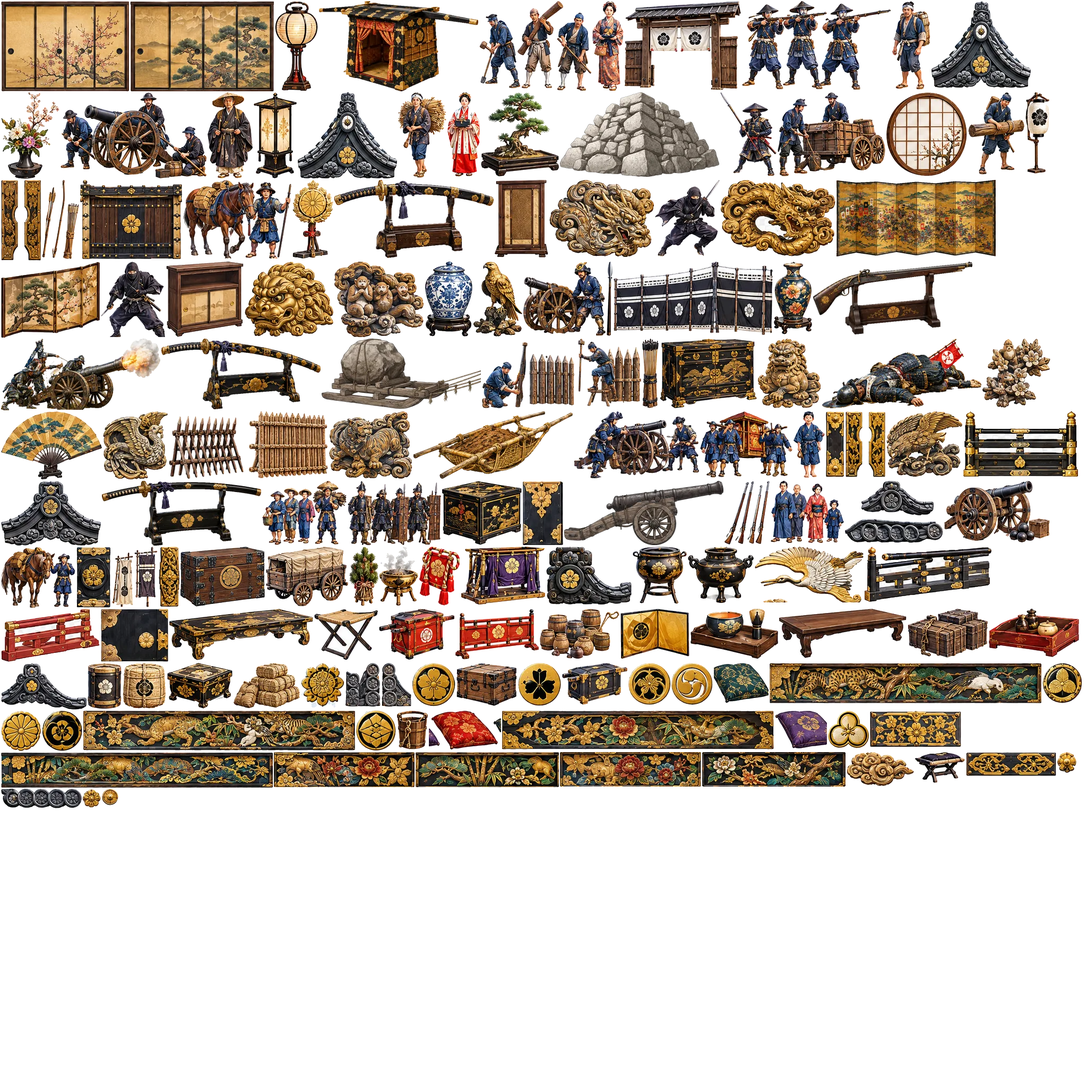
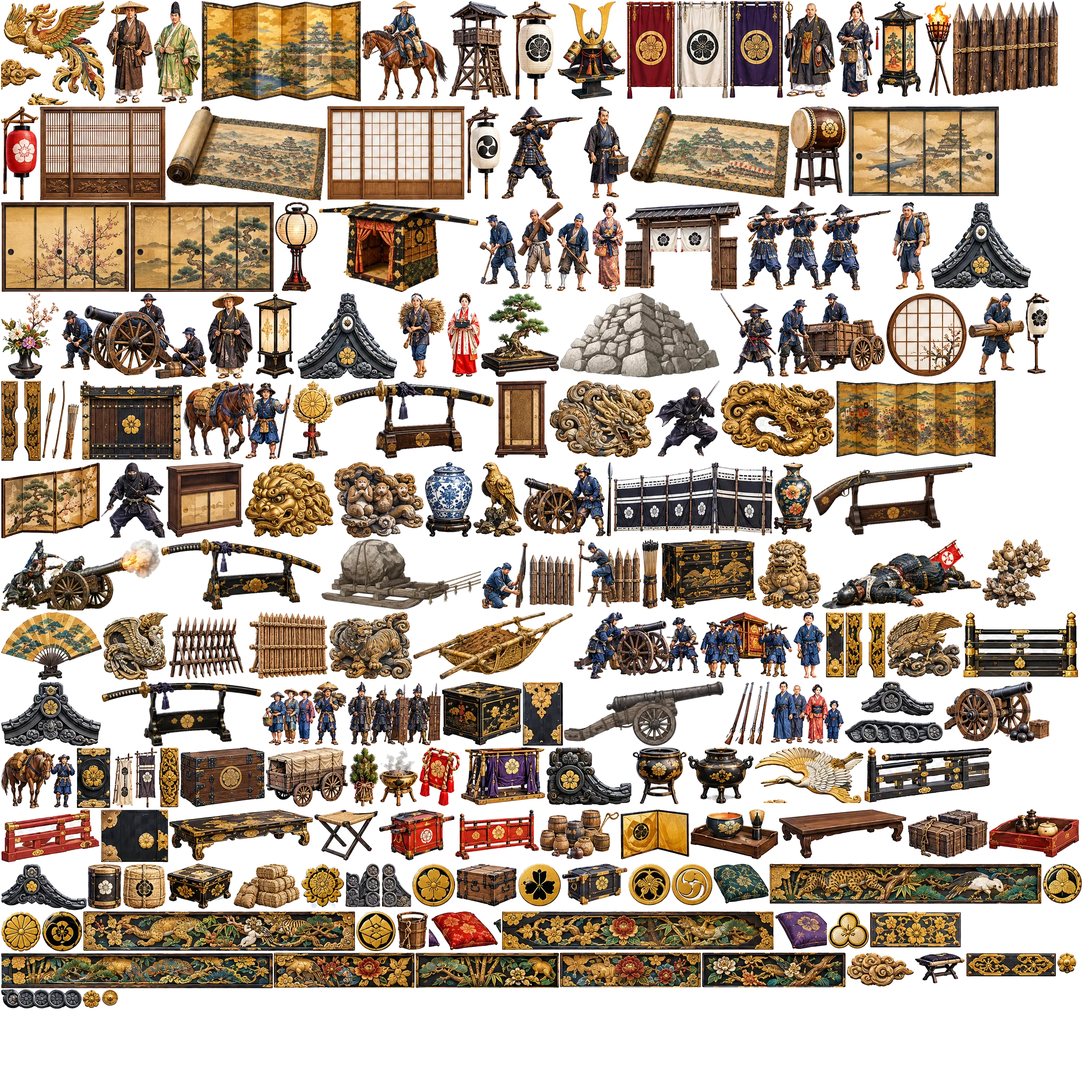
武将13人の後ろ姿を追加。陣の後ろから見ると後ろ姿に切り替わる
Claude-Session: https://claude.ai/code/session_01CbQDmY5EVodmwZ72hpont7

diff --git a/index.html b/index.html
@@ -3320,7 +3320,7 @@ const inOut=(x,z,m)=>OUTAREA.some(r=>inR(r,x,z,m||0));
 }
 
 /* ================= 切り抜き画像（スプライト）: 人物・装飾品をアトラス画像から並べる ================= */
-const ATLAS_META={"size":2048,"pages":4,"s":{"t_nobori":[0,2,2,98,300,3.4],"g_nobori":[0,102,2,133,300,3.0],"nb_rokumon":[0,237,2,111,300,4.2],"kinsen":[0,350,2,103,300,4.2],"sennari":[0,455,2,88,300,4.2],"kama":[0,545,2,176,300,0.35],"chaire":[0,723,2,242,300,0.22],"ex_chatsubo":[0,967,2,269,300,0.42],"ex_do":[0,1238,2,192,300,0.7],"ex_hyotan":[0,1432,2,214,300,0.38],"ex_jingasa":[0,1648,2,300,300,0.32],"ex_kabuto1":[0,2,304,235,300,0.55],"ex_kabuto2":[0,239,304,256,300,0.55],"ex_kabuto3":[0,497,304,239,300,0.55],"ex_kabuto_bariin":[0,738,304,196,300,0.62],"ex_konten":[0,936,304,231,300,0.55],"ex_kouro":[0,1169,304,230,300,0.42],"ex_tsubo_matsu":[0,1401,304,251,300,0.42],"ex_vase_imari":[0,1654,304,148,300,0.5],"k_nb_aoi":[0,1804,304,84,300,4.2],"k_nb_ii":[0,1890,304,84,300,4.2],"k_nb_maeda":[0,2,606,94,300,4.2],"obj_hashigo":[0,98,606,139,300,4.5],"r_act_kiba":[0,239,606,259,300,2.9],"t_nb_green":[0,500,606,78,300,4.2],"t_nb_mori":[0,580,606,82,300,4.2],"k_nobori_b":[0,664,606,116,300,3.4],"r_act_kiba_b":[0,782,606,150,300,2.9],"t_nobori_b":[0,934,606,95,300,3.4],"k_act_reload":[0,1031,606,300,299,1.9],"ki_maru":[0,1333,606,300,299,1.1],"ki_jumonji":[0,1635,606,300,292,1.1],"ki_hyotan":[0,2,908,300,289,1.1],"ex_jinbaori1":[0,304,908,300,285,0.95],"ex_jinbaori2":[0,606,908,300,283,0.95],"ki_kashiwa":[0,908,908,300,282,1.1],"tsukaiban":[0,1210,908,300,281,2.7],"lord_green":[0,1512,908,300,277,1.25],"nb_black":[0,1814,908,96,276,4.2],"lord_navy":[0,2,1199,300,274,1.25],"horo":[0,304,1199,300,273,2.7],"ex_chawan_oribe":[0,606,1199,300,273,0.16],"nb_white":[0,908,1199,86,270,4.2],"k_act_fire":[0,996,1199,300,268,2.1],"nb_red":[0,1298,1199,76,264,4.2],"ki_kiri":[0,1376,1199,300,263,1.1],"nb_blue":[0,1678,1199,77,260,4.2],"ki_jumonji2":[0,2,1475,300,260,1.1],"ki_nibiki":[0,304,1475,300,259,1.1],"ki_mae":[0,606,1475,300,258,1.1],"nb_yellow":[0,908,1475,77,257,4.2],"mokko_b":[0,987,1475,300,257,1.75],"t_hideyori":[0,1289,1475,140,256,1.75],"t_bushou":[0,1431,1475,102,256,1.8],"t_yari":[0,1535,1475,98,256,1.75],"t_yumi":[0,1635,1475,121,256,1.8],"t_uma":[0,1758,1475,144,256,2.5],"r_yumi":[0,1904,1475,122,256,1.8],"taisho":[0,2,1737,135,256,1.85],"y_hb":[0,139,1737,96,256,1.75],"y_dark":[0,237,1737,100,256,1.8],"r_bushou":[0,339,1737,102,256,1.85],"ashigaru":[0,443,1737,112,256,1.75],"r_kiba":[0,557,1737,131,256,2.6],"teppo_a":[0,690,1737,187,256,1.65],"p_lord":[0,879,1737,123,256,1.75],"p_kabuto":[0,1004,1737,101,256,1.8],"p_yari":[0,1107,1737,84,256,1.75],"p_red":[0,1193,1737,108,256,1.8],"p_horse":[0,1303,1737,132,256,2.3],"p_monk":[0,1437,1737,94,256,1.75],"p_ninja":[0,1533,1737,143,256,1.6],"p_woman":[0,1678,1737,75,256,1.6],"p_flag":[0,1755,1737,107,256,2.6],"p_lav":[0,1864,1737,75,256,1.6],"p_porter":[1,2,2,113,256,1.7],"p_noble":[1,117,2,102,256,1.8],"p_orange":[1,221,2,81,256,1.6],"p_point":[1,304,2,101,256,1.75],"p_flagboy":[1,407,2,97,256,2.4],"p_naked":[1,506,2,118,256,1.7],"q_ronin":[1,626,2,112,256,1.75],"q_redw":[1,740,2,83,256,1.6],"q_merchant":[1,825,2,124,256,1.75],"q_yoke":[1,951,2,187,256,1.7],"q_green":[1,1140,2,76,256,1.6],"q_child":[1,1218,2,175,256,1.1],"q_oldw":[1,1395,2,120,256,1.5],"q_girl":[1,1517,2,108,256,1.45],"q_traveler":[1,1627,2,124,256,1.75],"q_purple":[1,1753,2,100,256,1.6],"w_samurai":[1,1855,2,115,256,1.8],"w_red":[1,1972,2,73,256,1.6],"w_yoke":[1,2,260,163,256,1.7],"w_bucket":[1,167,260,80,256,1.55],"w_traveler":[1,249,260,103,256,1.8],"w_boy":[1,354,260,124,256,1.3],"w_umbrella":[1,480,260,90,256,1.7],"w_box":[1,572,260,114,256,1.7],"w_oldw":[1,688,260,113,256,1.5],"w_youth":[1,803,260,102,256,1.75],"w_tray":[1,907,260,78,256,1.6],"w_straw":[1,987,260,110,256,1.75],"lady_walk":[1,1099,260,108,256,1.62],"lady_tray":[1,1209,260,84,256,1.6],"lady_tray2":[1,1295,260,109,256,1.6],"sam_kami":[1,1406,260,123,256,1.8],"sam_haori":[1,1531,260,113,256,1.8],"sam_armor":[1,1646,260,102,256,1.8],"lord_purple":[1,1750,260,246,256,1.25],"sanada":[1,2,518,152,256,2.3],"yodo":[1,156,518,159,256,1.62],"nene":[1,317,518,161,256,1.6],"rikyu":[1,480,518,97,256,1.68],"kimura":[1,579,518,126,256,2.35],"goto":[1,707,518,127,256,2.3],"mitsunari":[1,836,518,114,256,1.75],"ishibiki":[1,952,518,185,256,1.55],"nanban":[1,1139,518,121,256,1.85],"frois":[1,1262,518,87,256,1.75],"touryou":[1,1351,518,106,256,1.72],"ishiku":[1,1459,518,206,256,1.25],"takajo":[1,1667,518,149,256,1.75],"jijo":[1,1818,518,112,256,1.6],"bugyo":[1,2,776,164,256,1.8],"taketaba_a":[1,168,776,183,256,1.75],"teppo_k":[1,353,776,201,256,1.3],"taketaba":[1,556,776,100,256,2.0],"kokuin":[1,658,776,204,256,1.0],"act_carry":[1,864,776,151,256,2.3],"act_flee":[1,1017,776,193,256,2.2],"ex_hata":[1,1212,776,130,256,1.6],"ex_hideyoshi_zo":[1,1344,776,157,256,1.5],"ex_kakejiku_castle":[1,1503,776,128,256,1.5],"k_bs_date":[1,1633,776,199,256,2.6],"k_bs_honda":[1,1834,776,136,256,2.6],"k_bs_ii":[1,2,1034,106,256,2.6],"k_bs_maeda":[1,110,1034,142,256,2.6],"k_bs_matsudaira":[1,254,1034,112,256,2.6],"k_bs_satake":[1,368,1034,155,256,2.6],"k_bs_todo":[1,525,1034,133,256,2.6],"k_bs_uesugi":[1,660,1034,119,256,2.6],"obj_fuda":[1,781,1034,94,256,1.9],"obj_tate":[1,877,1034,202,256,1.6],"t_bs_akashi":[1,1081,1034,128,256,2.6],"t_bs_chosokabe":[1,1211,1034,137,256,2.6],"t_bs_kimura2":[1,1350,1034,125,256,2.6],"t_bs_mori":[1,1477,1034,180,256,2.6],"t_bs_ono":[1,1659,1034,146,256,2.6],"ashigaru_b":[1,1807,1034,104,256,1.75],"ishibiki_b":[1,2,1292,168,256,1.55],"ishiku_b":[1,172,1292,214,256,1.25],"k_act_fire_b":[1,388,1292,223,256,2.1],"k_act_reload_b":[1,613,1292,184,256,1.9],"k_act_taketaba_b":[1,799,1292,216,256,2.3],"k_bushou_b":[1,1017,1292,110,256,1.8],"k_captain_b":[1,1129,1292,107,256,1.75],"k_teppo_b":[1,1238,1292,161,256,1.7],"k_uma_b":[1,1401,1292,117,256,2.5],"k_yari_b":[1,1520,1292,109,256,1.75],"k_yumi_b":[1,1631,1292,164,256,1.8],"ninpu_b":[1,1797,1292,104,256,1.65],"p_naked_b":[1,1903,1292,114,256,1.7],"p_porter_b":[1,2,1550,114,256,1.7],"r_act_fire_b":[1,118,1550,252,256,2.1],"r_bushou_b":[1,372,1550,112,256,1.85],"r_kiba_b":[1,486,1550,124,256,2.6],"r_yumi_b":[1,612,1550,122,256,1.8],"t_act_yari_b":[1,736,1550,229,256,2.0],"t_bushou_b":[1,967,1550,105,256,1.8],"t_uma_b":[1,1074,1550,113,256,2.5],"t_yari_b":[1,1189,1550,97,256,1.75],"t_yumi_b":[1,1288,1550,116,256,1.8],"taketaba_a_b":[1,1406,1550,132,256,1.75],"teppo_a_b":[1,1540,1550,180,256,1.65],"teppo_k_b":[1,1722,1550,173,256,1.3],"y_dark_b":[1,1897,1550,107,256,1.8],"y_hb_b":[2,2,2,89,256,1.75],"yari_a_b":[2,93,2,117,256,1.8],"pillar_k":[2,212,2,42,255,2.4],"k_yumi":[2,256,2,137,254,1.8],"ki_umebachi":[2,395,2,300,254,1.1],"kago":[2,697,2,300,253,2.0],"t_teppo_b":[2,999,2,212,253,1.7],"nb_stripe":[2,1213,2,74,252,4.2],"k_tate_b":[2,1289,2,300,250,2.2],"r_act_fire":[2,1591,2,300,249,2.1],"ex_chawan_gold":[2,2,260,270,248,0.16],"nb_yel2":[2,274,260,73,246,4.2],"nb_white2":[2,349,260,71,246,4.2],"ex_sensu_kiri":[2,422,260,300,245,0.32],"ex_kawara":[2,724,260,300,244,0.3],"k_nobori":[2,1026,260,108,242,3.4],"nb_green2":[2,1136,260,63,242,4.2],"k_act_taketaba":[2,1201,260,300,242,2.3],"nb_navyw":[2,1503,260,70,241,4.2],"ex_sensu_tsuru":[2,1575,260,300,239,0.32],"ex_monjo":[2,2,510,300,237,0.3],"ki_naka":[2,304,510,300,237,1.1],"ki_uroko":[2,606,510,300,237,1.1],"nb_purple":[2,908,510,78,236,4.2],"nb_tomoe":[2,988,510,75,236,4.2],"nb_navy":[2,1065,510,75,236,4.2],"ki_sanbo":[2,1142,510,300,236,1.1],"t_teppo":[2,1444,510,181,235,1.7],"mokko":[2,1627,510,300,235,1.75],"nb_cross":[2,1929,510,78,234,4.2],"torch_pole":[2,2,749,48,234,2.2],"hideyoshi":[2,52,749,300,233,1.3],"k_bushou":[2,354,749,99,232,1.8],"nb_green":[2,455,749,71,231,4.2],"nobori_pair":[2,528,749,133,229,3.0],"k_ieyasu":[2,663,749,156,228,1.3],"ex_hako_tsuru":[2,821,749,300,228,0.4],"nb_white_k":[2,1123,749,101,227,4],"toro4":[2,1226,749,93,227,2.0],"nobori_kid":[2,1321,749,71,225,2.8],"yari_a":[2,1394,749,105,225,1.8],"kasa":[2,1501,749,174,225,2.6],"kuge":[2,1677,749,86,224,1.85],"toro2":[2,1765,749,70,224,1.9],"k_uma":[2,1837,749,178,223,2.5],"onna_musha":[2,2,985,70,223,1.65],"t_monk":[2,74,985,102,222,1.75],"ex_byobu_castle":[2,178,985,300,219,1.25],"k_yari":[2,480,985,101,217,1.75],"yagura_w":[2,583,985,124,217,4.5],"toro1":[2,709,985,56,217,0.9],"k_act_climb":[2,767,985,300,216,2.4],"k_zouhei_b":[2,1069,985,234,216,1.7],"yagura_flag":[2,1305,985,120,214,6],"by_pine":[2,1427,985,314,214,1.7],"by_sakura":[2,1743,985,277,214,1.7],"armor":[2,2,1210,110,213,1.5],"toro3":[2,114,1210,132,213,2.2],"taore":[2,248,1210,300,212,0.75],"samurai_p":[2,550,1210,97,211,1.75],"samurai_a":[2,649,1210,112,211,1.75],"by_crane":[2,763,1210,253,210,1.7],"ex_hako_kiri":[2,1018,1210,300,210,0.38],"by_iris":[2,1320,1210,190,209,1.7],"t_act_yari":[2,1512,1210,300,209,2.0],"samurai_b":[2,1814,1210,86,208,1.75],"by_tiger":[2,2,1425,180,208,1.7],"chawan":[2,184,1425,300,206,0.09],"by_kiri":[2,486,1425,224,205,1.7],"t_taitsutsu":[2,712,1425,112,204,1.75],"umajirushi":[2,826,1425,122,203,3.0],"kagaribi2":[2,950,1425,55,202,1.7],"obj_hyorou":[2,1007,1425,300,202,1.0],"kakejiku":[2,1309,1425,77,201,1.6],"bell":[2,1388,1425,103,200,2.4],"musume_r":[2,1493,1425,63,198,1.6],"ex_byobu_sakura":[2,1558,1425,300,198,1.25],"yari_pair":[2,1860,1425,124,197,1.75],"houou":[2,2,1635,196,196,1.4],"tabisou":[2,200,1635,88,193,1.8],"kuge_g":[2,290,1635,88,193,1.8],"ex_byobu_castle2":[2,380,1635,300,189,1.25],"uma_rider":[2,682,1635,162,187,2.3],"yagura":[2,846,1635,117,187,6],"lan_white":[2,965,1635,84,186,0.8],"kabuto":[2,1051,1635,127,185,0.6],"maku_r":[2,1180,1635,93,184,1.6],"maku_w":[2,1275,1635,98,183,1.6],"maku_p":[2,1375,1635,101,182,1.6],"k_monk":[2,1478,1635,96,181,1.75],"onna_b":[2,1576,1635,70,181,1.6],"andon_g":[2,1648,1635,91,181,0.85],"kagaribi":[2,1741,1635,52,179,1.7],"saku":[2,1795,1635,199,179,2.2],"lan_red":[2,2,1833,71,178,0.8],"koshi":[2,75,1833,237,178,1.8],"ex_emaki1":[2,314,1833,300,178,0.32],"shoji":[2,616,1833,260,177,1.8],"lan_tomoe":[2,878,1833,65,176,0.8],"k_teppo":[2,945,1833,153,175,1.7],"shonin":[2,1100,1833,85,174,1.7],"ex_emaki2":[2,1187,1833,300,173,0.32],"taiko":[2,1489,1833,107,170,1.5],"fs_castle":[2,1598,1833,284,170,1.8],"fs_ume":[3,2,2,241,170,1.8],"fs_pine":[3,245,2,271,170,1.8],"chochin":[3,518,2,81,170,1.2],"ex_norimono":[3,601,2,300,170,1.25],"workers":[3,903,2,211,169,1.8],"okami_p":[3,1116,2,59,169,1.6],"jin_gate":[3,1177,2,219,168,3.4],"teppo_line":[3,1398,2,281,167,1.7],"ninpu":[3,1681,2,72,167,1.65],"oni2":[3,1755,2,187,164,1.0],"ikebana":[3,2,174,110,163,0.7],"cannon_c":[3,114,174,275,162,1.9],"roujin":[3,391,174,85,162,1.65],"andon":[3,478,174,81,162,0.9],"onigawara":[3,561,174,187,162,1.2],"wara":[3,750,174,91,161,1.7],"miko":[3,843,174,61,159,1.6],"bonsai":[3,906,174,147,159,0.6],"ishiyama":[3,1055,174,300,159,1.6],"k_captain":[3,1357,174,106,158,1.75],"cart":[3,1465,174,203,158,1.9],"maru_mado":[3,1670,174,152,158,1.2],"log":[3,1824,174,106,155,1.6],"lan_small":[3,1932,174,45,153,1.3],"kg_pair":[3,2,339,75,152,0.9],"bows":[3,79,339,70,149,2.0],"mon_board":[3,151,339,192,149,1.6],"t_yuso":[3,345,339,204,148,1.9],"gold_uma":[3,551,339,77,148,2.6],"ex_katana1":[3,630,339,300,147,0.42],"cabinet":[3,932,339,101,146,1.0],"ryu_c":[3,1035,339,197,145,1.0],"t_ninja":[3,1234,339,122,144,1.4],"ryu":[3,1358,339,216,144,1.2],"ex_byobu_kassen":[3,1576,339,300,144,1.25],"by_small":[3,2,493,186,143,1.2],"k_ninja":[3,190,493,121,142,1.4],"shelf":[3,313,493,146,142,0.9],"shishi":[3,461,493,167,142,1.2],"saru":[3,630,493,169,142,0.8],"jar":[3,801,493,89,141,0.55],"taka":[3,892,493,92,141,0.7],"t_hoju":[3,986,493,155,140,1.9],"spears":[3,1143,493,11,140,2.6],"jinmaku":[3,1156,493,300,138,1.8],"vase":[3,1458,493,72,137,0.55],"ex_teppo":[3,1532,493,300,137,0.38],"k_act_ozutsu":[3,2,638,300,135,2.0],"ex_katana2":[3,304,638,300,133,0.42],"shura":[3,606,638,300,132,1.6],"saku_w":[3,908,638,300,131,2.0],"arrows":[3,1210,638,31,131,1.1],"chest":[3,1243,638,183,131,0.6],"shishi_c":[3,1428,638,119,131,0.8],"act_fallen":[3,1549,638,300,131,0.8],"hana_c":[3,1851,638,128,130,0.8],"ogi":[3,2,775,190,129,0.55],"houou_c":[3,194,775,122,129,0.8],"sakamogi":[3,318,775,300,127,1.7],"tora_c":[3,620,775,157,127,0.8],"obj_mokko":[3,779,775,300,127,0.7],"k_hoju":[3,1081,775,236,126,1.8],"k_kago":[3,1319,775,174,125,2.1],"kodomo":[3,1495,775,59,125,1.2],"kg_t":[3,1556,775,35,124,0.9],"kg_pair2":[3,1593,775,75,124,0.9],"taka_c":[3,1670,775,143,124,0.8],"rail_k":[3,1815,775,216,123,0.9],"oni5":[3,2,906,188,122,0.7],"ex_katana3":[3,192,906,300,122,0.42],"k_zouhei":[3,494,906,159,121,1.7],"k_tate":[3,655,906,176,121,2.2],"box_l":[3,833,906,150,121,0.5],"kg_door":[3,985,906,76,121,1.0],"ozutsu":[3,1063,906,300,121,1.4],"guns":[3,1365,906,85,120,1.6],"machishu":[3,1452,906,138,117,1.7],"oni6":[3,1592,906,185,117,0.65],"cannon":[3,1779,906,199,116,1.1],"k_yuso":[3,2,1030,140,115,1.9],"kg_plate":[3,144,1030,65,115,0.8],"flags2":[3,211,1030,86,114,1.6],"kg_t2":[3,299,1030,39,114,0.9],"chest_m":[3,340,1030,159,113,0.6],"cart2":[3,501,1030,155,112,1.8],"kadomatsu":[3,658,1030,55,112,1.2],"incense":[3,715,1030,73,111,0.6],"tassel":[3,790,1030,77,111,0.6],"dais":[3,869,1030,158,109,1.2],"oni3":[3,1029,1030,161,109,0.8],"pot":[3,1192,1030,102,108,0.7],"kouro":[3,1296,1030,124,106,0.4],"crane_c":[3,1422,1030,205,105,0.9],"rail_k2":[3,1629,1030,239,104,0.8],"rail_r":[3,2,1147,186,100,0.8],"kg_panel":[3,190,1147,127,100,0.8],"lowtable":[3,319,1147,271,97,0.35],"shogi":[3,592,1147,120,97,0.5],"chest_r":[3,714,1147,142,96,0.7],"fence_r":[3,858,1147,157,95,0.9],"barrels":[3,1017,1147,150,94,1.2],"kin_byobu":[3,1169,1147,130,94,1.4],"chaki":[3,1301,1147,165,94,0.25],"table":[3,1468,1147,240,93,0.35],"crates":[3,1710,1147,151,92,1.1],"tray_r":[3,1863,1147,170,91,0.25],"oni4":[3,2,1249,161,88,0.55],"drumbox":[3,165,1249,64,87,0.6],"tawara":[3,231,1249,82,86,0.55],"box_s":[3,315,1249,123,86,0.3],"kome":[3,440,1249,125,85,1.2],"mon_hana":[3,567,1249,82,84,0.6],"oni7":[3,651,1249,66,83,0.5],"oni8":[3,719,1249,56,83,0.5],"mon_d":[3,777,1249,81,82,0.6],"trunk":[3,860,1249,114,81,0.6],"mon_sakura":[3,976,1249,81,81,0.6],"chest_k":[3,1059,1249,123,79,0.7],"mon_a":[3,1184,1249,79,79,0.6],"mon_tomoe":[3,1265,1249,78,79,0.6],"zabuton_g":[3,1345,1249,103,76,0.15],"ranma3":[3,1450,1249,512,76,0.6],"mon_c":[3,1964,1249,75,76,0.6],"mon_kiku":[3,2,1339,75,76,0.6],"mon_mokko":[3,79,1339,76,76,0.6],"ranma4":[3,157,1339,512,75,0.6],"mon_hishi":[3,671,1339,75,75,0.6],"bucket":[3,748,1339,58,73,0.5],"zabuton_r":[3,808,1339,136,73,0.15],"ranma1":[3,946,1339,512,73,0.7],"zabuton_p":[3,1460,1339,98,71,0.15],"mon_b":[3,1560,1339,77,71,0.6],"kg_h":[3,1639,1339,172,70,0.35],"ranma2":[3,2,1417,512,67,0.6],"ranma7":[3,516,1417,265,66,0.45],"ranma8":[3,783,1417,270,66,0.45],"ranma5":[3,1055,1417,266,65,0.45],"ranma6":[3,1323,1417,270,65,0.45],"kumo_c":[3,1595,1417,127,64,0.45],"stool":[3,1724,1417,94,58,0.45],"kg_h2":[3,1820,1417,170,45,0.3],"kg_stud":[3,1992,1417,36,39,0.14],"noki_end":[3,2,1486,152,37,0.25],"kg_stud3":[3,156,1486,34,35,0.14],"kg_stud2":[3,192,1486,31,31,0.12]}};
+const ATLAS_META={"size":2048,"pages":4,"s":{"t_nobori":[0,2,2,98,300,3.4],"g_nobori":[0,102,2,133,300,3.0],"nb_rokumon":[0,237,2,111,300,4.2],"kinsen":[0,350,2,103,300,4.2],"sennari":[0,455,2,88,300,4.2],"kama":[0,545,2,176,300,0.35],"chaire":[0,723,2,242,300,0.22],"ex_chatsubo":[0,967,2,269,300,0.42],"ex_do":[0,1238,2,192,300,0.7],"ex_hyotan":[0,1432,2,214,300,0.38],"ex_jingasa":[0,1648,2,300,300,0.32],"ex_kabuto1":[0,2,304,235,300,0.55],"ex_kabuto2":[0,239,304,256,300,0.55],"ex_kabuto3":[0,497,304,239,300,0.55],"ex_kabuto_bariin":[0,738,304,196,300,0.62],"ex_konten":[0,936,304,231,300,0.55],"ex_kouro":[0,1169,304,230,300,0.42],"ex_tsubo_matsu":[0,1401,304,251,300,0.42],"ex_vase_imari":[0,1654,304,148,300,0.5],"k_nb_aoi":[0,1804,304,84,300,4.2],"k_nb_ii":[0,1890,304,84,300,4.2],"k_nb_maeda":[0,2,606,94,300,4.2],"obj_hashigo":[0,98,606,139,300,4.5],"r_act_kiba":[0,239,606,259,300,2.9],"t_nb_green":[0,500,606,78,300,4.2],"t_nb_mori":[0,580,606,82,300,4.2],"k_nobori_b":[0,664,606,116,300,3.4],"r_act_kiba_b":[0,782,606,150,300,2.9],"t_nobori_b":[0,934,606,95,300,3.4],"k_act_reload":[0,1031,606,300,299,1.9],"ki_maru":[0,1333,606,300,299,1.1],"ki_jumonji":[0,1635,606,300,292,1.1],"ki_hyotan":[0,2,908,300,289,1.1],"ex_jinbaori1":[0,304,908,300,285,0.95],"ex_jinbaori2":[0,606,908,300,283,0.95],"ki_kashiwa":[0,908,908,300,282,1.1],"tsukaiban":[0,1210,908,300,281,2.7],"lord_green":[0,1512,908,300,277,1.25],"nb_black":[0,1814,908,96,276,4.2],"lord_navy":[0,2,1199,300,274,1.25],"horo":[0,304,1199,300,273,2.7],"ex_chawan_oribe":[0,606,1199,300,273,0.16],"nb_white":[0,908,1199,86,270,4.2],"k_act_fire":[0,996,1199,300,268,2.1],"nb_red":[0,1298,1199,76,264,4.2],"ki_kiri":[0,1376,1199,300,263,1.1],"nb_blue":[0,1678,1199,77,260,4.2],"ki_jumonji2":[0,2,1475,300,260,1.1],"ki_nibiki":[0,304,1475,300,259,1.1],"ki_mae":[0,606,1475,300,258,1.1],"nb_yellow":[0,908,1475,77,257,4.2],"mokko_b":[0,987,1475,300,257,1.75],"t_hideyori":[0,1289,1475,140,256,1.75],"t_bushou":[0,1431,1475,102,256,1.8],"t_yari":[0,1535,1475,98,256,1.75],"t_yumi":[0,1635,1475,121,256,1.8],"t_uma":[0,1758,1475,144,256,2.5],"r_yumi":[0,1904,1475,122,256,1.8],"taisho":[0,2,1737,135,256,1.85],"y_hb":[0,139,1737,96,256,1.75],"y_dark":[0,237,1737,100,256,1.8],"r_bushou":[0,339,1737,102,256,1.85],"ashigaru":[0,443,1737,112,256,1.75],"r_kiba":[0,557,1737,131,256,2.6],"teppo_a":[0,690,1737,187,256,1.65],"p_lord":[0,879,1737,123,256,1.75],"p_kabuto":[0,1004,1737,101,256,1.8],"p_yari":[0,1107,1737,84,256,1.75],"p_red":[0,1193,1737,108,256,1.8],"p_horse":[0,1303,1737,132,256,2.3],"p_monk":[0,1437,1737,94,256,1.75],"p_ninja":[0,1533,1737,143,256,1.6],"p_woman":[0,1678,1737,75,256,1.6],"p_flag":[0,1755,1737,107,256,2.6],"p_lav":[0,1864,1737,75,256,1.6],"p_porter":[1,2,2,113,256,1.7],"p_noble":[1,117,2,102,256,1.8],"p_orange":[1,221,2,81,256,1.6],"p_point":[1,304,2,101,256,1.75],"p_flagboy":[1,407,2,97,256,2.4],"p_naked":[1,506,2,118,256,1.7],"q_ronin":[1,626,2,112,256,1.75],"q_redw":[1,740,2,83,256,1.6],"q_merchant":[1,825,2,124,256,1.75],"q_yoke":[1,951,2,187,256,1.7],"q_green":[1,1140,2,76,256,1.6],"q_child":[1,1218,2,175,256,1.1],"q_oldw":[1,1395,2,120,256,1.5],"q_girl":[1,1517,2,108,256,1.45],"q_traveler":[1,1627,2,124,256,1.75],"q_purple":[1,1753,2,100,256,1.6],"w_samurai":[1,1855,2,115,256,1.8],"w_red":[1,1972,2,73,256,1.6],"w_yoke":[1,2,260,163,256,1.7],"w_bucket":[1,167,260,80,256,1.55],"w_traveler":[1,249,260,103,256,1.8],"w_boy":[1,354,260,124,256,1.3],"w_umbrella":[1,480,260,90,256,1.7],"w_box":[1,572,260,114,256,1.7],"w_oldw":[1,688,260,113,256,1.5],"w_youth":[1,803,260,102,256,1.75],"w_tray":[1,907,260,78,256,1.6],"w_straw":[1,987,260,110,256,1.75],"lady_walk":[1,1099,260,108,256,1.62],"lady_tray":[1,1209,260,84,256,1.6],"lady_tray2":[1,1295,260,109,256,1.6],"sam_kami":[1,1406,260,123,256,1.8],"sam_haori":[1,1531,260,113,256,1.8],"sam_armor":[1,1646,260,102,256,1.8],"lord_purple":[1,1750,260,246,256,1.25],"sanada":[1,2,518,152,256,2.3],"yodo":[1,156,518,159,256,1.62],"nene":[1,317,518,161,256,1.6],"rikyu":[1,480,518,97,256,1.68],"kimura":[1,579,518,126,256,2.35],"goto":[1,707,518,127,256,2.3],"mitsunari":[1,836,518,114,256,1.75],"ishibiki":[1,952,518,185,256,1.55],"nanban":[1,1139,518,121,256,1.85],"frois":[1,1262,518,87,256,1.75],"touryou":[1,1351,518,106,256,1.72],"ishiku":[1,1459,518,206,256,1.25],"takajo":[1,1667,518,149,256,1.75],"jijo":[1,1818,518,112,256,1.6],"bugyo":[1,2,776,164,256,1.8],"taketaba_a":[1,168,776,183,256,1.75],"teppo_k":[1,353,776,201,256,1.3],"taketaba":[1,556,776,100,256,2.0],"kokuin":[1,658,776,204,256,1.0],"act_carry":[1,864,776,151,256,2.3],"act_flee":[1,1017,776,193,256,2.2],"ex_hata":[1,1212,776,130,256,1.6],"ex_hideyoshi_zo":[1,1344,776,157,256,1.5],"ex_kakejiku_castle":[1,1503,776,128,256,1.5],"k_bs_date":[1,1633,776,199,256,2.6],"k_bs_honda":[1,1834,776,136,256,2.6],"k_bs_ii":[1,2,1034,106,256,2.6],"k_bs_maeda":[1,110,1034,142,256,2.6],"k_bs_matsudaira":[1,254,1034,112,256,2.6],"k_bs_satake":[1,368,1034,155,256,2.6],"k_bs_todo":[1,525,1034,133,256,2.6],"k_bs_uesugi":[1,660,1034,119,256,2.6],"obj_fuda":[1,781,1034,94,256,1.9],"obj_tate":[1,877,1034,202,256,1.6],"t_bs_akashi":[1,1081,1034,128,256,2.6],"t_bs_chosokabe":[1,1211,1034,137,256,2.6],"t_bs_kimura2":[1,1350,1034,125,256,2.6],"t_bs_mori":[1,1477,1034,180,256,2.6],"t_bs_ono":[1,1659,1034,146,256,2.6],"ashigaru_b":[1,1807,1034,104,256,1.75],"ishibiki_b":[1,2,1292,168,256,1.55],"ishiku_b":[1,172,1292,214,256,1.25],"k_act_fire_b":[1,388,1292,223,256,2.1],"k_act_reload_b":[1,613,1292,184,256,1.9],"k_act_taketaba_b":[1,799,1292,216,256,2.3],"k_bs_date_b":[1,1017,1292,191,256,2.6],"k_bs_honda_b":[1,1210,1292,111,256,2.6],"k_bs_ii_b":[1,1323,1292,98,256,2.6],"k_bs_maeda_b":[1,1423,1292,139,256,2.6],"k_bs_matsudaira_b":[1,1564,1292,112,256,2.6],"k_bs_satake_b":[1,1678,1292,131,256,2.6],"k_bs_todo_b":[1,1811,1292,138,256,2.6],"k_bs_uesugi_b":[1,2,1550,140,256,2.6],"k_bushou_b":[1,144,1550,110,256,1.8],"k_captain_b":[1,256,1550,107,256,1.75],"k_teppo_b":[1,365,1550,161,256,1.7],"k_uma_b":[1,528,1550,117,256,2.5],"k_yari_b":[1,647,1550,109,256,1.75],"k_yumi_b":[1,758,1550,164,256,1.8],"ninpu_b":[1,924,1550,104,256,1.65],"p_naked_b":[1,1030,1550,114,256,1.7],"p_porter_b":[1,1146,1550,114,256,1.7],"r_act_fire_b":[1,1262,1550,252,256,2.1],"r_bushou_b":[1,1516,1550,112,256,1.85],"r_kiba_b":[1,1630,1550,124,256,2.6],"r_yumi_b":[1,1756,1550,122,256,1.8],"t_act_yari_b":[2,2,2,229,256,2.0],"t_bs_akashi_b":[2,233,2,127,256,2.6],"t_bs_chosokabe_b":[2,362,2,142,256,2.6],"t_bs_kimura2_b":[2,506,2,134,256,2.6],"t_bs_mori_b":[2,642,2,170,256,2.6],"t_bs_ono_b":[2,814,2,136,256,2.6],"t_bushou_b":[2,952,2,105,256,1.8],"t_uma_b":[2,1059,2,113,256,2.5],"t_yari_b":[2,1174,2,97,256,1.75],"t_yumi_b":[2,1273,2,116,256,1.8],"taketaba_a_b":[2,1391,2,132,256,1.75],"teppo_a_b":[2,1525,2,180,256,1.65],"teppo_k_b":[2,1707,2,173,256,1.3],"y_dark_b":[2,1882,2,107,256,1.8],"y_hb_b":[2,2,260,89,256,1.75],"yari_a_b":[2,93,260,117,256,1.8],"pillar_k":[2,212,260,42,255,2.4],"k_yumi":[2,256,260,137,254,1.8],"ki_umebachi":[2,395,260,300,254,1.1],"kago":[2,697,260,300,253,2.0],"t_teppo_b":[2,999,260,212,253,1.7],"nb_stripe":[2,1213,260,74,252,4.2],"k_tate_b":[2,1289,260,300,250,2.2],"r_act_fire":[2,1591,260,300,249,2.1],"ex_chawan_gold":[2,2,518,270,248,0.16],"nb_yel2":[2,274,518,73,246,4.2],"nb_white2":[2,349,518,71,246,4.2],"ex_sensu_kiri":[2,422,518,300,245,0.32],"ex_kawara":[2,724,518,300,244,0.3],"k_nobori":[2,1026,518,108,242,3.4],"nb_green2":[2,1136,518,63,242,4.2],"k_act_taketaba":[2,1201,518,300,242,2.3],"nb_navyw":[2,1503,518,70,241,4.2],"ex_sensu_tsuru":[2,1575,518,300,239,0.32],"ex_monjo":[2,2,768,300,237,0.3],"ki_naka":[2,304,768,300,237,1.1],"ki_uroko":[2,606,768,300,237,1.1],"nb_purple":[2,908,768,78,236,4.2],"nb_tomoe":[2,988,768,75,236,4.2],"nb_navy":[2,1065,768,75,236,4.2],"ki_sanbo":[2,1142,768,300,236,1.1],"t_teppo":[2,1444,768,181,235,1.7],"mokko":[2,1627,768,300,235,1.75],"nb_cross":[2,1929,768,78,234,4.2],"torch_pole":[2,2,1007,48,234,2.2],"hideyoshi":[2,52,1007,300,233,1.3],"k_bushou":[2,354,1007,99,232,1.8],"nb_green":[2,455,1007,71,231,4.2],"nobori_pair":[2,528,1007,133,229,3.0],"k_ieyasu":[2,663,1007,156,228,1.3],"ex_hako_tsuru":[2,821,1007,300,228,0.4],"nb_white_k":[2,1123,1007,101,227,4],"toro4":[2,1226,1007,93,227,2.0],"nobori_kid":[2,1321,1007,71,225,2.8],"yari_a":[2,1394,1007,105,225,1.8],"kasa":[2,1501,1007,174,225,2.6],"kuge":[2,1677,1007,86,224,1.85],"toro2":[2,1765,1007,70,224,1.9],"k_uma":[2,1837,1007,178,223,2.5],"onna_musha":[2,2,1243,70,223,1.65],"t_monk":[2,74,1243,102,222,1.75],"ex_byobu_castle":[2,178,1243,300,219,1.25],"k_yari":[2,480,1243,101,217,1.75],"yagura_w":[2,583,1243,124,217,4.5],"toro1":[2,709,1243,56,217,0.9],"k_act_climb":[2,767,1243,300,216,2.4],"k_zouhei_b":[2,1069,1243,234,216,1.7],"yagura_flag":[2,1305,1243,120,214,6],"by_pine":[2,1427,1243,314,214,1.7],"by_sakura":[2,1743,1243,277,214,1.7],"armor":[2,2,1468,110,213,1.5],"toro3":[2,114,1468,132,213,2.2],"taore":[2,248,1468,300,212,0.75],"samurai_p":[2,550,1468,97,211,1.75],"samurai_a":[2,649,1468,112,211,1.75],"by_crane":[2,763,1468,253,210,1.7],"ex_hako_kiri":[2,1018,1468,300,210,0.38],"by_iris":[2,1320,1468,190,209,1.7],"t_act_yari":[2,1512,1468,300,209,2.0],"samurai_b":[2,1814,1468,86,208,1.75],"by_tiger":[2,2,1683,180,208,1.7],"chawan":[2,184,1683,300,206,0.09],"by_kiri":[2,486,1683,224,205,1.7],"t_taitsutsu":[2,712,1683,112,204,1.75],"umajirushi":[2,826,1683,122,203,3.0],"kagaribi2":[2,950,1683,55,202,1.7],"obj_hyorou":[2,1007,1683,300,202,1.0],"kakejiku":[2,1309,1683,77,201,1.6],"bell":[2,1388,1683,103,200,2.4],"musume_r":[2,1493,1683,63,198,1.6],"ex_byobu_sakura":[2,1558,1683,300,198,1.25],"yari_pair":[2,1860,1683,124,197,1.75],"houou":[3,2,2,196,196,1.4],"tabisou":[3,200,2,88,193,1.8],"kuge_g":[3,290,2,88,193,1.8],"ex_byobu_castle2":[3,380,2,300,189,1.25],"uma_rider":[3,682,2,162,187,2.3],"yagura":[3,846,2,117,187,6],"lan_white":[3,965,2,84,186,0.8],"kabuto":[3,1051,2,127,185,0.6],"maku_r":[3,1180,2,93,184,1.6],"maku_w":[3,1275,2,98,183,1.6],"maku_p":[3,1375,2,101,182,1.6],"k_monk":[3,1478,2,96,181,1.75],"onna_b":[3,1576,2,70,181,1.6],"andon_g":[3,1648,2,91,181,0.85],"kagaribi":[3,1741,2,52,179,1.7],"saku":[3,1795,2,199,179,2.2],"lan_red":[3,2,200,71,178,0.8],"koshi":[3,75,200,237,178,1.8],"ex_emaki1":[3,314,200,300,178,0.32],"shoji":[3,616,200,260,177,1.8],"lan_tomoe":[3,878,200,65,176,0.8],"k_teppo":[3,945,200,153,175,1.7],"shonin":[3,1100,200,85,174,1.7],"ex_emaki2":[3,1187,200,300,173,0.32],"taiko":[3,1489,200,107,170,1.5],"fs_castle":[3,1598,200,284,170,1.8],"fs_ume":[3,2,380,241,170,1.8],"fs_pine":[3,245,380,271,170,1.8],"chochin":[3,518,380,81,170,1.2],"ex_norimono":[3,601,380,300,170,1.25],"workers":[3,903,380,211,169,1.8],"okami_p":[3,1116,380,59,169,1.6],"jin_gate":[3,1177,380,219,168,3.4],"teppo_line":[3,1398,380,281,167,1.7],"ninpu":[3,1681,380,72,167,1.65],"oni2":[3,1755,380,187,164,1.0],"ikebana":[3,2,552,110,163,0.7],"cannon_c":[3,114,552,275,162,1.9],"roujin":[3,391,552,85,162,1.65],"andon":[3,478,552,81,162,0.9],"onigawara":[3,561,552,187,162,1.2],"wara":[3,750,552,91,161,1.7],"miko":[3,843,552,61,159,1.6],"bonsai":[3,906,552,147,159,0.6],"ishiyama":[3,1055,552,300,159,1.6],"k_captain":[3,1357,552,106,158,1.75],"cart":[3,1465,552,203,158,1.9],"maru_mado":[3,1670,552,152,158,1.2],"log":[3,1824,552,106,155,1.6],"lan_small":[3,1932,552,45,153,1.3],"kg_pair":[3,2,717,75,152,0.9],"bows":[3,79,717,70,149,2.0],"mon_board":[3,151,717,192,149,1.6],"t_yuso":[3,345,717,204,148,1.9],"gold_uma":[3,551,717,77,148,2.6],"ex_katana1":[3,630,717,300,147,0.42],"cabinet":[3,932,717,101,146,1.0],"ryu_c":[3,1035,717,197,145,1.0],"t_ninja":[3,1234,717,122,144,1.4],"ryu":[3,1358,717,216,144,1.2],"ex_byobu_kassen":[3,1576,717,300,144,1.25],"by_small":[3,2,871,186,143,1.2],"k_ninja":[3,190,871,121,142,1.4],"shelf":[3,313,871,146,142,0.9],"shishi":[3,461,871,167,142,1.2],"saru":[3,630,871,169,142,0.8],"jar":[3,801,871,89,141,0.55],"taka":[3,892,871,92,141,0.7],"t_hoju":[3,986,871,155,140,1.9],"spears":[3,1143,871,11,140,2.6],"jinmaku":[3,1156,871,300,138,1.8],"vase":[3,1458,871,72,137,0.55],"ex_teppo":[3,1532,871,300,137,0.38],"k_act_ozutsu":[3,2,1016,300,135,2.0],"ex_katana2":[3,304,1016,300,133,0.42],"shura":[3,606,1016,300,132,1.6],"saku_w":[3,908,1016,300,131,2.0],"arrows":[3,1210,1016,31,131,1.1],"chest":[3,1243,1016,183,131,0.6],"shishi_c":[3,1428,1016,119,131,0.8],"act_fallen":[3,1549,1016,300,131,0.8],"hana_c":[3,1851,1016,128,130,0.8],"ogi":[3,2,1153,190,129,0.55],"houou_c":[3,194,1153,122,129,0.8],"sakamogi":[3,318,1153,300,127,1.7],"tora_c":[3,620,1153,157,127,0.8],"obj_mokko":[3,779,1153,300,127,0.7],"k_hoju":[3,1081,1153,236,126,1.8],"k_kago":[3,1319,1153,174,125,2.1],"kodomo":[3,1495,1153,59,125,1.2],"kg_t":[3,1556,1153,35,124,0.9],"kg_pair2":[3,1593,1153,75,124,0.9],"taka_c":[3,1670,1153,143,124,0.8],"rail_k":[3,1815,1153,216,123,0.9],"oni5":[3,2,1284,188,122,0.7],"ex_katana3":[3,192,1284,300,122,0.42],"k_zouhei":[3,494,1284,159,121,1.7],"k_tate":[3,655,1284,176,121,2.2],"box_l":[3,833,1284,150,121,0.5],"kg_door":[3,985,1284,76,121,1.0],"ozutsu":[3,1063,1284,300,121,1.4],"guns":[3,1365,1284,85,120,1.6],"machishu":[3,1452,1284,138,117,1.7],"oni6":[3,1592,1284,185,117,0.65],"cannon":[3,1779,1284,199,116,1.1],"k_yuso":[3,2,1408,140,115,1.9],"kg_plate":[3,144,1408,65,115,0.8],"flags2":[3,211,1408,86,114,1.6],"kg_t2":[3,299,1408,39,114,0.9],"chest_m":[3,340,1408,159,113,0.6],"cart2":[3,501,1408,155,112,1.8],"kadomatsu":[3,658,1408,55,112,1.2],"incense":[3,715,1408,73,111,0.6],"tassel":[3,790,1408,77,111,0.6],"dais":[3,869,1408,158,109,1.2],"oni3":[3,1029,1408,161,109,0.8],"pot":[3,1192,1408,102,108,0.7],"kouro":[3,1296,1408,124,106,0.4],"crane_c":[3,1422,1408,205,105,0.9],"rail_k2":[3,1629,1408,239,104,0.8],"rail_r":[3,2,1525,186,100,0.8],"kg_panel":[3,190,1525,127,100,0.8],"lowtable":[3,319,1525,271,97,0.35],"shogi":[3,592,1525,120,97,0.5],"chest_r":[3,714,1525,142,96,0.7],"fence_r":[3,858,1525,157,95,0.9],"barrels":[3,1017,1525,150,94,1.2],"kin_byobu":[3,1169,1525,130,94,1.4],"chaki":[3,1301,1525,165,94,0.25],"table":[3,1468,1525,240,93,0.35],"crates":[3,1710,1525,151,92,1.1],"tray_r":[3,1863,1525,170,91,0.25],"oni4":[3,2,1627,161,88,0.55],"drumbox":[3,165,1627,64,87,0.6],"tawara":[3,231,1627,82,86,0.55],"box_s":[3,315,1627,123,86,0.3],"kome":[3,440,1627,125,85,1.2],"mon_hana":[3,567,1627,82,84,0.6],"oni7":[3,651,1627,66,83,0.5],"oni8":[3,719,1627,56,83,0.5],"mon_d":[3,777,1627,81,82,0.6],"trunk":[3,860,1627,114,81,0.6],"mon_sakura":[3,976,1627,81,81,0.6],"chest_k":[3,1059,1627,123,79,0.7],"mon_a":[3,1184,1627,79,79,0.6],"mon_tomoe":[3,1265,1627,78,79,0.6],"zabuton_g":[3,1345,1627,103,76,0.15],"ranma3":[3,1450,1627,512,76,0.6],"mon_c":[3,1964,1627,75,76,0.6],"mon_kiku":[3,2,1717,75,76,0.6],"mon_mokko":[3,79,1717,76,76,0.6],"ranma4":[3,157,1717,512,75,0.6],"mon_hishi":[3,671,1717,75,75,0.6],"bucket":[3,748,1717,58,73,0.5],"zabuton_r":[3,808,1717,136,73,0.15],"ranma1":[3,946,1717,512,73,0.7],"zabuton_p":[3,1460,1717,98,71,0.15],"mon_b":[3,1560,1717,77,71,0.6],"kg_h":[3,1639,1717,172,70,0.35],"ranma2":[3,2,1795,512,67,0.6],"ranma7":[3,516,1795,265,66,0.45],"ranma8":[3,783,1795,270,66,0.45],"ranma5":[3,1055,1795,266,65,0.45],"ranma6":[3,1323,1795,270,65,0.45],"kumo_c":[3,1595,1795,127,64,0.45],"stool":[3,1724,1795,94,58,0.45],"kg_h2":[3,1820,1795,170,45,0.3],"kg_stud":[3,1992,1795,36,39,0.14],"noki_end":[3,2,1864,152,37,0.25],"kg_stud3":[3,156,1864,34,35,0.14],"kg_stud2":[3,192,1864,31,31,0.12]}};
 const ATL={tex:[],ok:false}; { const tl=new THREE.TextureLoader(); for(let i=0;i<ATLAS_META.pages;i++){ const t=tl.load('assets/atlas'+i+'.webp',()=>{ ATL.loaded=(ATL.loaded||0)+1; }); t.encoding=THREE.sRGBEncoding; t.anisotropy=4; ATL.tex.push(t); } }
 function sprInfo(n){ const m=ATLAS_META.s[n]; if(!m) return null; const P=ATLAS_META.size; return {page:m[0],u:m[1]/P,v:1-(m[2]+m[4])/P,uw:m[3]/P,vh:m[4]/P,h:m[5],aspect:m[3]/m[4]}; }
 const _sprMats=[];
@@ -3594,7 +3594,7 @@ function unitPos(u,m,t){ const k=unitProg(u,t),bx=u.at[0]+((u.to||u.at)[0]-u.at[
   const bad=(xx,zz)=>hitBlock(xx,zz,.3)||(waterAt(xx,zz,.3)&&!walkable(xx,zz)); if(u.y===null&&bad(x,z)){ let ok=false; for(let d=1;d<=8&&!ok;d++) for(const sg of [1,-1]){ const xx=x+u.right[0]*d*sg,zz=z+u.right[1]*d*sg; if(!bad(xx,zz)){ x=xx; z=zz; ok=true; break; } } if(!ok) for(let d=1;d<=8&&!ok;d++) for(const sg of [1,-1]){ const xx=x+u.fwd[0]*d*sg,zz=z+u.fwd[1]*d*sg; if(!bad(xx,zz)){ x=xx; z=zz; ok=true; break; } } }
   const y=u.y!==null?u.y:withScen(()=>groundH(x,z)); return [x,y,z,k]; }
 function withScen(f){ return f(); }
-function clearUnits(){ bCrowd.clear(); UNITS=[]; FXS=[]; FX.clear(); if(typeof clearTags==='function') clearTags(); }
+function clearUnits(){ STBK.length=0; bCrowd.clear(); UNITS=[]; FXS=[]; FX.clear(); if(typeof clearTags==='function') clearTags(); }
 function fxsStep(t,dt){
   for(const f of FXS){ if(t<(f.t0||0)||(f.t1&&t>f.t1)) continue;
     if(f.type==='cannon'){ f.acc=(f.acc||rnd()*f.every)+dt; if(f.acc>=f.every){ f.acc=0; const [x,y,z]=f.from; FX.emit(3,x,y+1,z,7,0,0,0,.35); for(let i=0;i<4;i++) FX.emit(0,x+(rnd()-.5)*2,y+1.2,z+(rnd()-.5)*2,4,(rnd()-.5)*1.2,.8,(rnd()-.5)*1.2,6); f.pending=(f.pending||[]); f.pending.push(1.4); }
@@ -3612,6 +3612,7 @@ function updateUnits(dt){ if(!GB.visible) return; phT+=dt; const t=phT,rx=Math.c
     if(u.fire&&t>(u.fireT0||0)&&(!u.fireT1||t<u.fireT1)&&rnd()<u.fire*dt){ const m=pick(u.mem); if(m&&m.it&&!m.gone&&!m.flag){ const it=m.it,fx=u.aim?u.aim[0]-it.x:u.fwd[0],fz=u.aim?u.aim[1]-it.z:u.fwd[1],l=Math.hypot(fx,fz)||1;
         FX.emit(3,it.x+fx/l*.8,it.y+1.3,it.z+fz/l*.8,1.6,0,0,0,.25); FX.emit(0,it.x+fx/l*1.2,it.y+1.4,it.z+fz/l*1.2,1.2,fx/l*.6+(rnd()-.5)*.4,.35,fz/l*.6+(rnd()-.5)*.4,4+rnd()*2); } }
     if(u.dust&&rnd()<u.dust*dt){ const m=pick(u.mem); if(m&&m.it) FX.emit(5,m.it.x+(rnd()-.5)*2,m.it.y+.3,m.it.z+(rnd()-.5)*2,1.6,(rnd()-.5)*.3,.25,(rnd()-.5)*.3,5); } }
+  for(const [it,bk,fz] of STBK){ if(it.hidden) continue; const b=fz*(it.z-camera.position.z)>0; bCrowd.setOn(it,!b); bCrowd.setOn(bk,b); }
   fxsStep(t,dt);
   if(PH&&PH.keep) keepBuild(Math.min(1,PH.keep[0]+(PH.keep[1]-PH.keep[0])*Math.min(1,t/(PH.keepDur||40))));
   if(PH&&PH.sled){ const path=PH.sled,L=path.length-1,k=Math.min(L-.001,(t/(PH.sledDur||60))%1*L),i=k|0,u=k-i,a=path[i],b=path[i+1]; const x=a[0]+(b[0]-a[0])*u,z=a[1]+(b[1]-a[1])*u; sled.position.set(x,withScen(()=>groundH(x,z)),z); if(PH.sledIt) bCrowd.move(PH.sledIt,x,sled.position.y,z); sled.rotation.y=yawTo(a[0],a[1],b[0],b[1])+Math.PI;
@@ -3718,7 +3719,8 @@ const BSG={t_bs_mori:['毛利勝永','天王寺口はこの勝永が引き受け
  k_bs_ii:['井伊直孝','井伊の赤備え、ここにあり。真田丸へ一番乗りを果たせ！'],k_bs_maeda:['前田利常','加賀百万石の名にかけて、真田丸を落とさねばならぬ。'],k_bs_date:['伊達政宗','この政宗の鉄砲隊を見よ。大和路から大坂へ攻め上るぞ。'],
  k_bs_matsudaira:['松平忠直','越前勢の手で大坂城一番乗りを果たすのじゃ！'],k_bs_todo:['藤堂高虎','八尾で長宗我部とぶつかったが、手ひどくやられたわ……。'],k_bs_uesugi:['上杉景勝','鴫野の柵を奪い取れ。上杉の兵は退かぬ。'],
  k_bs_satake:['佐竹義宣','今福で木村・後藤に押し込まれた……上杉殿、加勢を頼む！'],k_bs_honda:['本多忠朝','冬の陣の汚名をすすぐ。天王寺口の先陣はこの忠朝じゃ！']};
-function bsHere(list){ for(const [sp,x,z,y] of list){ const it=y!==undefined?DC(sp,x,z,{},y,true):DC(sp,x,z,{s:1.15}); if(it&&BSG[sp]) TALK.push({it,name:BSG[sp][0],say:BSG[sp][1],era:'toyo',scen:SCEN}); } }
+var STBK=[];  /* 部隊に入っていない武将の正面・後ろ姿: [正面, 後ろ姿, 向き] */
+function bsHere(list){ for(const [sp,x,z,y] of list){ const it=y!==undefined?DC(sp,x,z,{},y,true):DC(sp,x,z,{s:1.15}); if(it&&sprInfo(sp+'_b')){ const bk=bCrowd.add(sp+'_b',it.x,it.y,it.z,{s:y!==undefined?1:1.15,flip:it.flip,shadow:false}); if(bk){ bk.twin=1; bCrowd.setOn(bk,false); it.bk=bk; STBK.push([it,bk,sp[0]==='t'?1:-1]); } } if(it&&BSG[sp]) TALK.push({it,name:BSG[sp][0],say:BSG[sp][1],era:'toyo',scen:SCEN}); } }
 function campsOnly(){ camp(-400,1760,'k_ieyasu',{uma:'kinsen',talk:['徳川家康','この城、力攻めでは落ちぬ。和議で堀を埋めさせるのじゃ。'],scen:'fuyu'}); camp(420,1380,'k_bushou',{r:7,talk:['徳川秀忠','父上の采配に従い、岡山に陣を張っておる。'],scen:'fuyu'}); }
 function riders(z0){ unit({spr:['tsukaiban','horo','tsukaiban'],n:3,at:[-60,z0],w:260,d:12,face:[1,0],mill:.5,millR:110,dust:.8}); }
 function fuyuBase(sanadaBattle){ campsOnly(); bsHere([['t_bs_chosokabe',150,836,5.5],['t_bs_akashi',-150,836,5.5],['t_bs_mori',-420,836,5.5],['t_bs_ono',-60,800],['k_bs_maeda',330,1072],['k_bs_matsudaira',236,1062],['k_bs_ii',424,1062],['k_bs_todo',-300,1060],['k_bs_uesugi',884,-160],['k_bs_satake',866,-220]]); riders(1050); DC('sennari',8,90); wallDefenders(T_INF,T_FLAG,8); sanadaFort(true); sgDefense(T_FLAG); siegeDeco([[-400,1760],[420,1380]]); siegeLine(965,-560,250); siegeLine(1018,250,480); siegeLine(992,480,560);
@@ -3799,7 +3801,7 @@ $('tEra').onclick=()=>{ if(started) openEra(); }; $('eraX').onclick=()=>{ $('era
 const phaseCam=()=>{ if(tour.on) tourStart(); else goScenCam(); }; $('scPrev').onclick=()=>{ setPhase(PHI-1); phaseCam(); }; $('scNext').onclick=()=>{ setPhase(PHI+1); phaseCam(); }; $('scCam').onclick=()=>{ if(tour.on) tourStart(); else goScenCam(); };
 $('scGnd').onclick=()=>{ tourStop(false); scGround=!(scGround&&P.mode==='walk'); goScenCam(); showHint(scGround?'地上に降りました。パッドで歩いて、兵や陣のそばまで近づけます':'空から見ています'); };
 $('scAuto').onclick=()=>{ if(tour.on){ tourStop(false); } else { tour.on=true; auto=true; $('scAuto').classList.add('on'); tourStart(); showHint('自動案内を始めます'); } }; $('scTg').onclick=()=>{ const m=$('scen').classList.toggle('min'); $('scTg').textContent=m?'ひらく':'たたむ'; };
-window.__scn={FX,get FXS(){return FXS},get phT(){return phT},get UNITS(){return UNITS}};
+window.__scn={get STBK(){return STBK},FX,get FXS(){return FXS},get phT(){return phT},get UNITS(){return UNITS}};
 /* 検査用: 建物にめり込んだ人・物、宙に浮いた人・物を数える */
 window.__scn.audit=(C)=>{ C=C||bCrowd; const bad=[]; for(const it of C.items){ if(it.hidden||it.air||it.twin) continue; const g=groundH(it.x,it.z); const blk=hitBlock(it.x,it.z,.25);
   if(it.y<g-.3) bad.push(['sunk',it.name,it.x|0,it.z|0,+it.y.toFixed(1),+g.toFixed(1)]); else if(blk&&it.y<g+.5) bad.push(['inBlock',it.name,it.x|0,it.z|0]); else if(it.y<g+.5&&waterAt(it.x,it.z,.2)&&!walkable(it.x,it.z)) bad.push(['inWater',it.name,it.x|0,it.z|0]); else if(!blk&&it.y>g+.6&&it.y<30&&!/^lan_(white|red|tomoe)|tray_r|kg_|ranma|mon_|oni|kumo|houou|ryu|tora|shishi|taka_c|hana_c|pillar/.test(it.name)) bad.push(['float',it.name,it.x|0,it.z|0,+it.y.toFixed(1),+g.toFixed(1)]); } return bad; };
